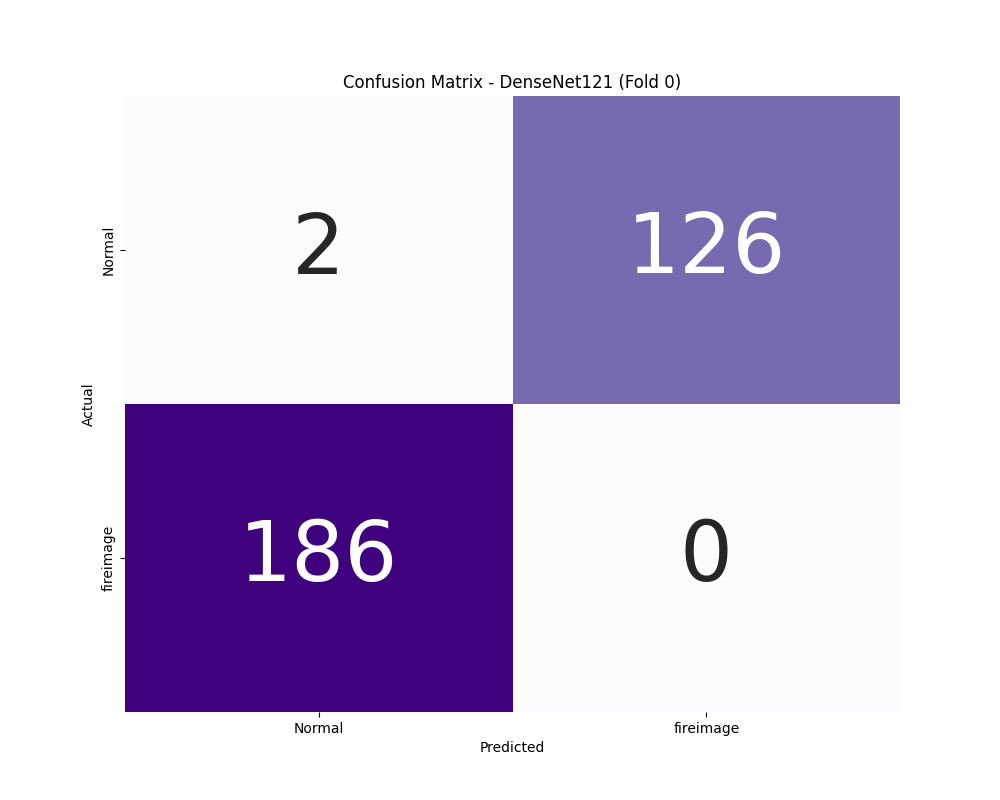
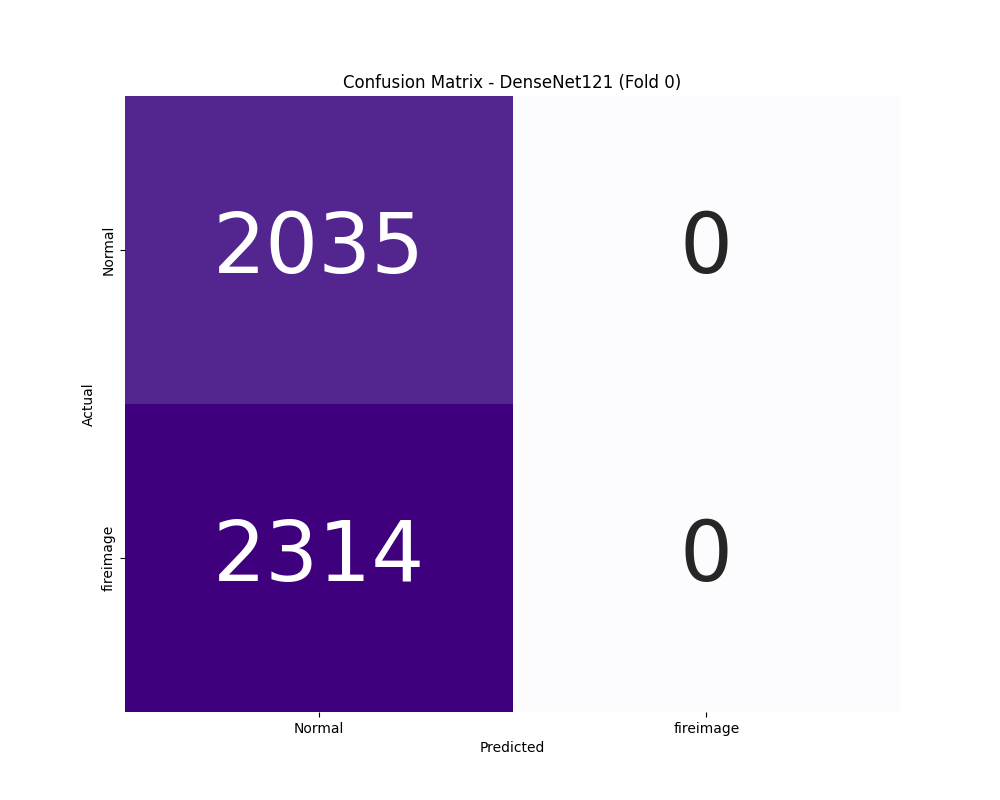
fold0 학습 완료 상태 저장 및 이전 준비
- main_v2.py: FORCE_RETRAIN 초기화, epochs=30, patience=8로 축소
- HANDOFF.md: 새 컴퓨터 인수인계 문서 추가
- metrics.csv, cm 이미지: fold0 결과 업데이트

Changed region(s): [[0.124, 0.0938, 0.899, 0.5312], [0.217, 0.625, 0.434, 0.75]]

diff --git a/main_v2.py b/main_v2.py
@@ -80,8 +80,8 @@ PER_MODEL_LR = {
     'internimage':            5e-5,   # DCNv3 — 매우 낮은 LR 필요
 }
 
-# internimage 와 maxvit 은 기존 불량 가중치를 삭제하고 재학습
-FORCE_RETRAIN = {'internimage', 'maxvit'}
+# fold0 완료 모델 가중치 유지, 나머지만 학습
+FORCE_RETRAIN = set()
 
 # ─────────────────────────────────────────────────────
 # StratifiedGroupKFold — 3-fold
@@ -135,8 +135,8 @@ for fold_idx, (train_index, test_index) in enumerate(sgkf.split(X, y, groups)):
         train_loader, val_loader, test_loader,
         model_dicts, class_name, fold_idx,
         lr=3e-4,
-        epochs=60,
-        patience=12,
+        epochs=30,
+        patience=8,
         per_model_lr=PER_MODEL_LR,
         force_retrain=FORCE_RETRAIN,
     )

diff --git a/HANDOFF.md b/HANDOFF.md
@@ -1,0 +1,169 @@
+# 인수인계 문서 — 화재 이미지 탐지 모델 성능평가
+
+## 프로젝트 개요
+
+화재 이미지 이진 분류(normal=비화재 / abnormal=화재) 7개 모델 성능 비교 실험.
+데이터 누수를 수정한 뒤 전체 재평가를 진행 중이며, 현재 컴퓨터에서 Fold 0 학습이
+부분 완료된 상태로 이 컴퓨터에서 나머지를 이어서 학습해야 한다.
+
+---
+
+## 데이터셋
+
+```
+data/fireimage/
+    normal/          ← 비화재 이미지 (youtube 서브폴더 포함)
+    abnormal/        ← 화재 이미지 (black_smoke, flame, white_gray_smoke, youtube, chimney_smoke 등)
+```
+
+- normal: 약 6,106장 / abnormal: 약 2,871장 (합계 ~8,977장)
+- YouTube 폴더에는 연속 프레임이 있음 (예: `9UONERkDWq0_f000000.jpg`, `_f000005.jpg`, ...)
+- **데이터 누수 방지**: StratifiedGroupKFold 적용 — 같은 YouTube 영상 프레임은 반드시 같은 fold에만 배치
+
+---
+
+## 7개 모델
+
+| 모델 키 | 클래스 |
+|---------|--------|
+| Resnet50 | DeepModel('ResNet50') |
+| DenseNet121 | DeepModel('DenseNet121') |
+| efficientnetv2 | EfficientNetV2ForImageClassification |
+| efficientnetv2_proposal | EfficientNetV2ForImageClassification_v2 |
+| nextvit | NextViTForImageClassification |
+| maxvit | MaxViTForImageClassification |
+| internimage | InternImageForImageClassification |
+
+---
+
+## 평가 방법
+
+- Stratified 3-Fold CV (StratifiedGroupKFold, random_state=1004)
+- 지표: Accuracy / Loss / Recall / Precision / F1 / AUROC / ECE
+- ECE(Expected Calibration Error): 확률 보정 품질, 낮을수록 좋음
+
+---
+
+## 현재 학습 진행 상황
+
+### 완료된 가중치 (model_save/fireimage/fold0/)
+
+| 모델 | 저장 경로 | 상태 |
+|------|-----------|------|
+| Resnet50 | fold0/Resnet50.pt | ✅ 완료 |
+| DenseNet121 | fold0/DenseNet121.pt | ✅ 완료 |
+| efficientnetv2 | fold0/efficientnetv2.pt | ✅ 완료 |
+| efficientnetv2_proposal | fold0/efficientnetv2_proposal.pt | ✅ 완료 |
+| nextvit | fold0/nextvit.pt | ✅ 완료 |
+| maxvit | fold0/maxvit.pt | ✅ 완료 |
+| internimage | — | ❌ 미완료 |
+
+### 남은 작업 (15 runs)
+
+- fold0: internimage 1개
+- fold1: 7개 전체
+- fold2: 7개 전체
+
+fold1/2의 Resnet50·DenseNet121 구버전 가중치는 이미 삭제됨 (StratifiedKFold로 학습된 무효 가중치였음).
+
+---
+
+## 코드 핵심 설정 (main_v2.py)
+
+```python
+FORCE_RETRAIN = set()   # 빈 셋 — fold0 완료 가중치 유지
+epochs   = 30           # (기존 60에서 축소)
+patience = 8            # (기존 12에서 축소)
+```
+
+**주의**: FORCE_RETRAIN을 건드리지 말 것.
+fold0에 저장된 가중치가 있으면 자동 스킵, 없으면 자동 학습.
+
+---
+
+## 환경 설정 및 실행 방법
+
+### 1. Python 환경 (Python 3.9 ~ 3.11 권장)
+
+```bash
+pip install torch torchvision --index-url https://download.pytorch.org/whl/cu118
+pip install timm transformers einops
+pip install grad-cam lime shap
+pip install numpy pandas scikit-learn scipy
+pip install opencv-python Pillow matplotlib seaborn umap-learn tqdm
+```
+
+또는 한 번에:
+```bash
+pip install -r requirements.txt
+pip install torch torchvision --index-url https://download.pytorch.org/whl/cu118
+```
+
+> GPU가 CUDA 12.x라면 cu118 대신 cu121 사용:
+> `--index-url https://download.pytorch.org/whl/cu121`
+
+### 2. 학습 실행
+
+```bash
+cd C:\fireimage_detection   # 또는 프로젝트 폴더 경로
+python main_v2.py --class_name fireimage
+```
+
+로그는 자동으로 저장됨:
+- `training_stdout.txt`
+- `training_stderr.txt`
+
+### 3. 학습 완료 후 비교표 생성
+
+```bash
+python compare_models.py
+```
+
+결과 저장 위치:
+- `results/fireimage/metrics.csv` — 전체 성능 수치
+- `results/fireimage/model_comparison.png` — 비교 차트
+- `results/fireimage/model_radar.png` — 레이더 차트
+
+---
+
+## 주의사항
+
+- **InternImage**: 이전 실험에서 F1=0.405로 수렴 실패 이력 있음. LR=5e-5로 낮게 설정됨.
+  학습 후 F1이 0.4~0.5 수준이면 수렴 실패로 판단.
+- **Precision is ill-defined 경고**: 초반 epoch에서 정상 발생, 무시해도 됨.
+- stdout이 비어 있어도 정상 (Python 출력 버퍼링). model_save 폴더에 .pt 파일이 쌓이면 진행 중인 것.
+- 외부 검증셋이 있다면 `data/external_val/fireimage/normal/`, `abnormal/`에 넣으면 학습 완료 후 자동 평가됨.
+
+---
+
+## 파일 구조 요약
+
+```
+fireimage_detection/
+├── main_v2.py              ← 메인 실행 스크립트
+├── compare_models.py       ← 학습 완료 후 비교표 생성
+├── evaluate_external.py    ← 외부 검증셋 평가
+├── requirements.txt
+├── HANDOFF.md              ← 이 문서
+├── models/
+│   ├── deep_model.py       ← ResNet50, DenseNet121
+│   ├── efficientnetv2.py
+│   ├── nextvit.py
+│   ├── maxvit.py
+│   └── internimage.py
+├── utils/
+│   ├── utils.py            ← 데이터 로드, 그룹 ID 부여 (누수 방지 핵심)
+│   └── train_loop.py       ← 학습 루프, ECE 계산
+├── data/
+│   └── fireimage/
+│       ├── normal/
+│       └── abnormal/
+├── model_save/
+│   └── fireimage/
+│       ├── fold0/          ← 6개 완료된 가중치 있음
+│       ├── fold1/          ← 비어있음 (학습 필요)
+│       └── fold2/          ← 비어있음 (학습 필요)
+└── results/
+    └── fireimage/
+        └── metrics.csv     ← 기존 결과 (이번 재학습으로 갱신 예정)
+```
